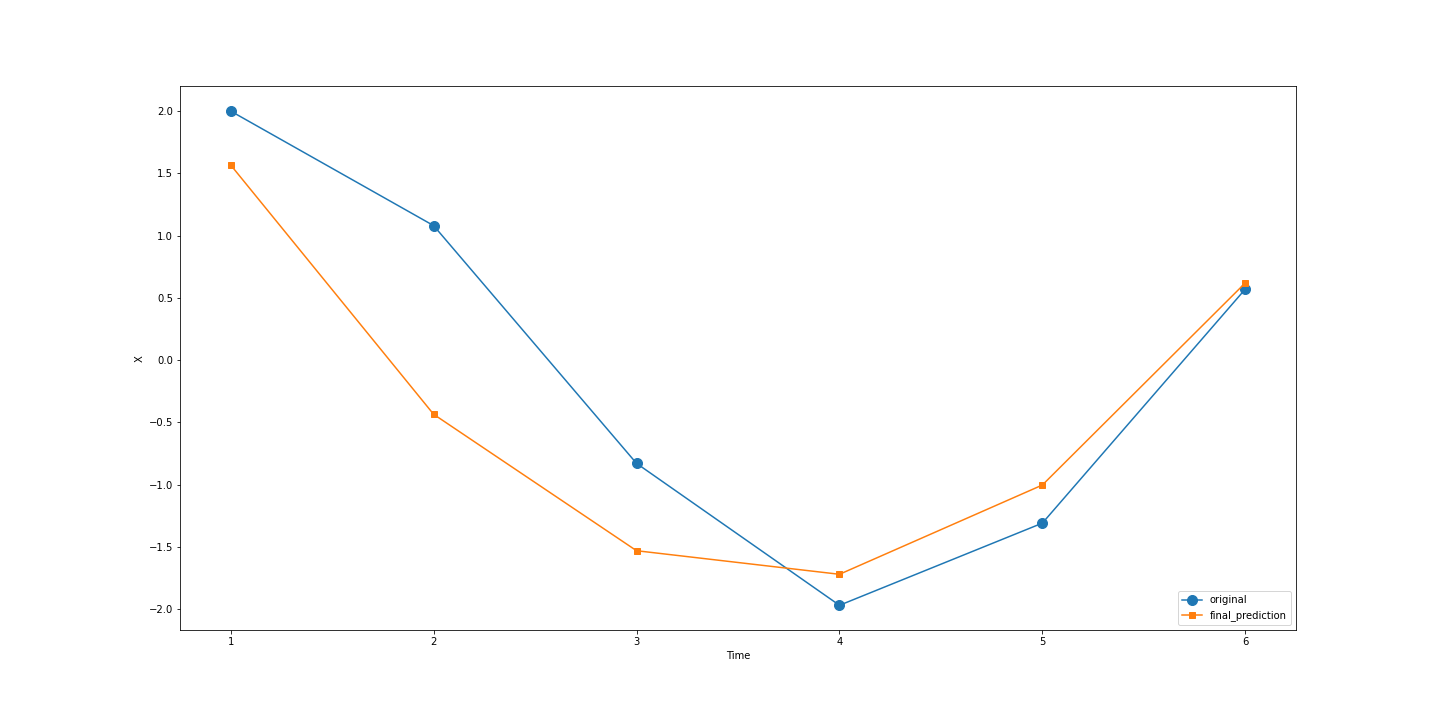
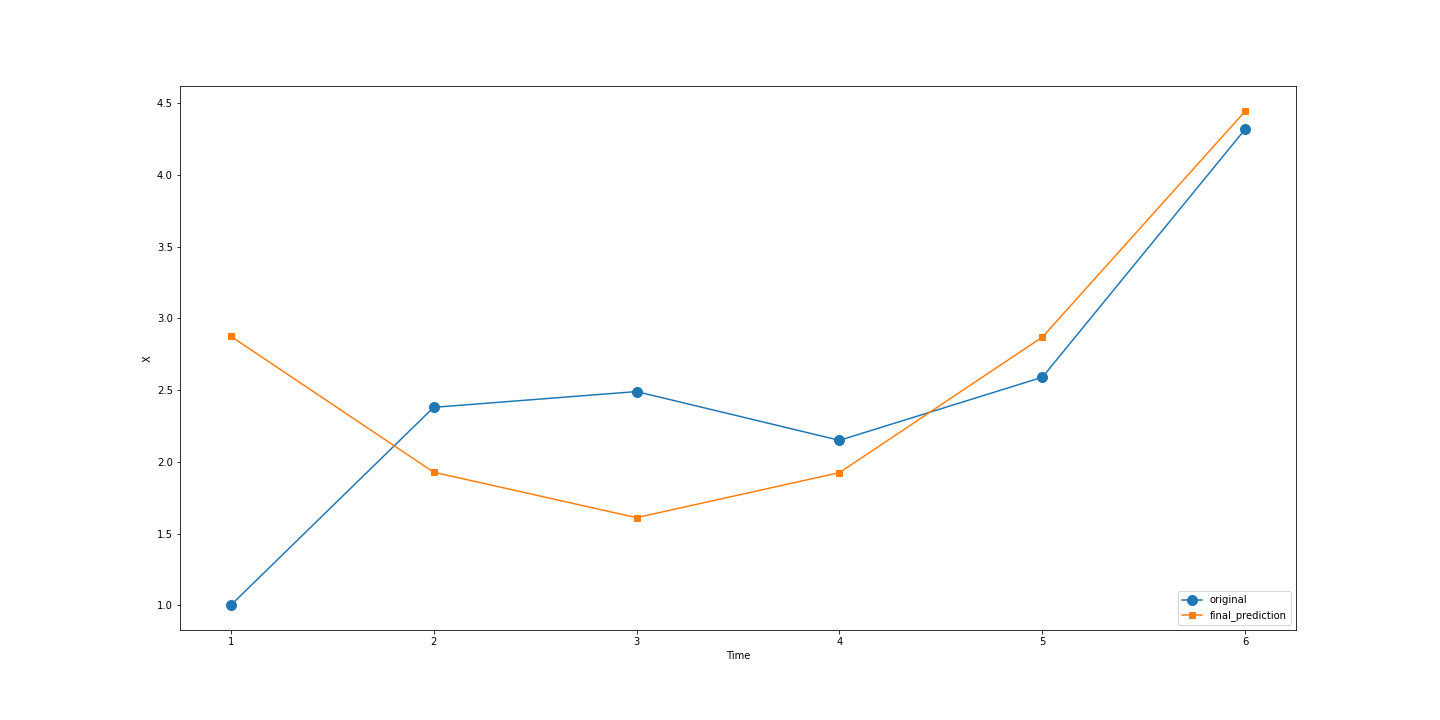
constant speed

diff --git a/hw1.py b/hw1.py
@@ -18,30 +18,33 @@ def mse(y,y_bar):
 def fX(t,a2,a1,a0):
     return a2*(t**2) + a1*t + a0
     
-# partial derivative of mse w.r.t alpha2
-def dAplha2(t,x,x_pred):
+# partial derivative of sse w.r.t alpha2
+def dAlpha2(t,x,x_pred):
     return t**2 * (x - x_pred)   
  
-# partial derivative of mse w.r.t alpha1
+# partial derivative of sse w.r.t alpha1
 def dAlpha1(t,x,x_pred):
     return t * (x - x_pred)
 
-# partial derivative of mse w.r.t alpha0
+# partial derivative of sse w.r.t alpha0
 def dAlpha0(x,x_pred):
     return x - x_pred
 
-# evaluates the gradient of each partial derivative
+#def dAlpha22(t,x,x_pred):
+#    return 2t*
+
+# evaluates each partial derivative (coefficient)
 # re-used for alpha2, alpha1 and alpha0
 def gradient(n,dAlpha):
-    return (-2/n) * sum(dAlpha)
+    return (-2) * sum(dAlpha)
 
 
-def gradient_descent(X,t,learn_rate,coeffs):
+def gradient_descent(X,t,learn_rate,coeffs,pa0,pa1,pa2):
     
     X_pred = [fX(ti,*coeffs) for ti in t]
-    partials_alpha2 = [dAplha2(t[i], X[i], X_pred[i]) for i,x in enumerate(X)]
-    partials_alpha1 = [dAlpha1(t[i], X[i], X_pred[i]) for i,x in enumerate(X)]
-    partials_alpha0 = [dAlpha0(X[i], X_pred[i]) for i,x in enumerate(X)]
+    partials_alpha2 = [pa2(t[i], X[i], X_pred[i]) for i,x in enumerate(X)]
+    partials_alpha1 = [pa1(t[i], X[i], X_pred[i]) for i,x in enumerate(X)]
+    partials_alpha0 = [pa0(X[i], X_pred[i]) for i,x in enumerate(X)]
     
     print(f'''partials_aplha2\t{partials_alpha2}
 partials_alpha1\t{partials_alpha1}
@@ -64,7 +67,7 @@ partials_alpha0\t{partials_alpha0}''')
     return loss,coeffs,X_pred
 
 
-def regress(X,t,coeffs,max_iter,rate,tol):
+def constant_speed(X,t,coeffs,max_iter,rate,tol):
     
     losses = []
     alpha2 = None
@@ -74,7 +77,7 @@ def regress(X,t,coeffs,max_iter,rate,tol):
 
     while i < max_iter:
         
-        loss,new_coeffs,X_pred = gradient_descent(X,t,rate,coeffs)
+        loss,new_coeffs,X_pred = gradient_descent(X,t,rate,coeffs,dAlpha0,dAlpha1,dAlpha2)
         losses.append(loss)
         
         deltaA2 = numpy.abs(coeffs[0] - new_coeffs[0])
@@ -90,8 +93,35 @@ def regress(X,t,coeffs,max_iter,rate,tol):
         i += 1
     
     coeffs = [alpha2,alpha1,alpha0]
-    return X_pred,coeffs
+    return X_pred,coeffs,losses
+ 
+
+def constant_acc(X,t,coeffs,max_iter,rate,tol):
+    losses = []
+    alpha2 = None
+    alpha1 = None
+    alpha0 = None
+    i = 0
+
+    while i < max_iter:
         
+        loss,new_coeffs,X_pred = gradient_descent(X,t,rate,coeffs)
+        losses.append(loss)
+        
+        deltaA2 = numpy.abs(coeffs[0] - new_coeffs[0])
+        deltaA1 = numpy.abs(coeffs[1] - new_coeffs[1])
+        deltaA0 = numpy.abs(coeffs[2] - new_coeffs[2])
+        
+        if all(delta < tol for delta in [deltaA0,deltaA1,deltaA2]) or loss < tol:
+            alpha2 = coeffs[0]
+            alpha1 = coeffs[1] 
+            alpha0 = coeffs[2]
+         
+        
+        i += 1
+    
+    coeffs = [alpha2,alpha1,alpha0]
+    return X_pred,coeffs,losses
 
 def main():
     
@@ -99,27 +129,30 @@ def main():
     # t = time value for each x-coordinate
     # coeffs = random coefficients a2,a1 and a0 for the initial model
     # initial model >> X = a2*t**2 + a1*t + a0; see function fX
-    X = [2,1.08,-0.83,-1.97,-1.31,0.57]
+    data = {'X': [2,1.08,-0.83,-1.97,-1.31,0.57],
+            'Y': [0,1.68,1.82,0.28,-1.51,-1.91],
+            'Z': [1,2.38,2.49,2.15,2.59,4.32]}
     t = [1,2,3,4,5,6]
-    original_coeffs = [9,-6,2]
-    coeffs = [9,-6,2]
+    original_coeffs = [9,-20,2]  
+    coeffs = [9,-20,2]
     max_iter = 10000
     rate = 0.0001
     tol = 0.01
-    
-    # final prediction, X_pred obtained after minimising sum of squares
-    X_pred,final_coeffs = regress(X,t,coeffs,max_iter,rate,tol)
-    print('original coeffs\t',original_coeffs)
-    print('final coeffs\t',final_coeffs)
-   
-    plt.figure(figsize=(20,10))
-    plt.plot(t,X,marker='.',markersize=20,label='original')
-    plt.plot(t,X_pred,marker='s',label='final_prediction')
-    plt.legend(loc='lower right')
-    plt.xlabel('Time')
-    plt.ylabel('X')
-    plt.savefig('output.png')
-    plt.show()
+    for j,X in enumerate(list(data.values())):
+        
+        # final prediction, X_pred, obtained after minimising sum of squares and final model coefficients
+        X_pred,final_coeffs,losses = constant_speed(X,t,coeffs,max_iter,rate,tol)
+        print('original coeffs\t',original_coeffs)
+        print('final coeffs\t',final_coeffs)
+        
+        plt.figure(figsize=(20,10))
+        plt.plot(t,X,marker='.',markersize=20,label='original')
+        plt.plot(t,X_pred,marker='s',label='final_prediction')
+        plt.legend(loc='lower right')
+        plt.xlabel('Time')
+        plt.ylabel('X')
+        plt.savefig(f'output{list(data.keys())[j]}.png')
+        plt.show()
     
     
     
